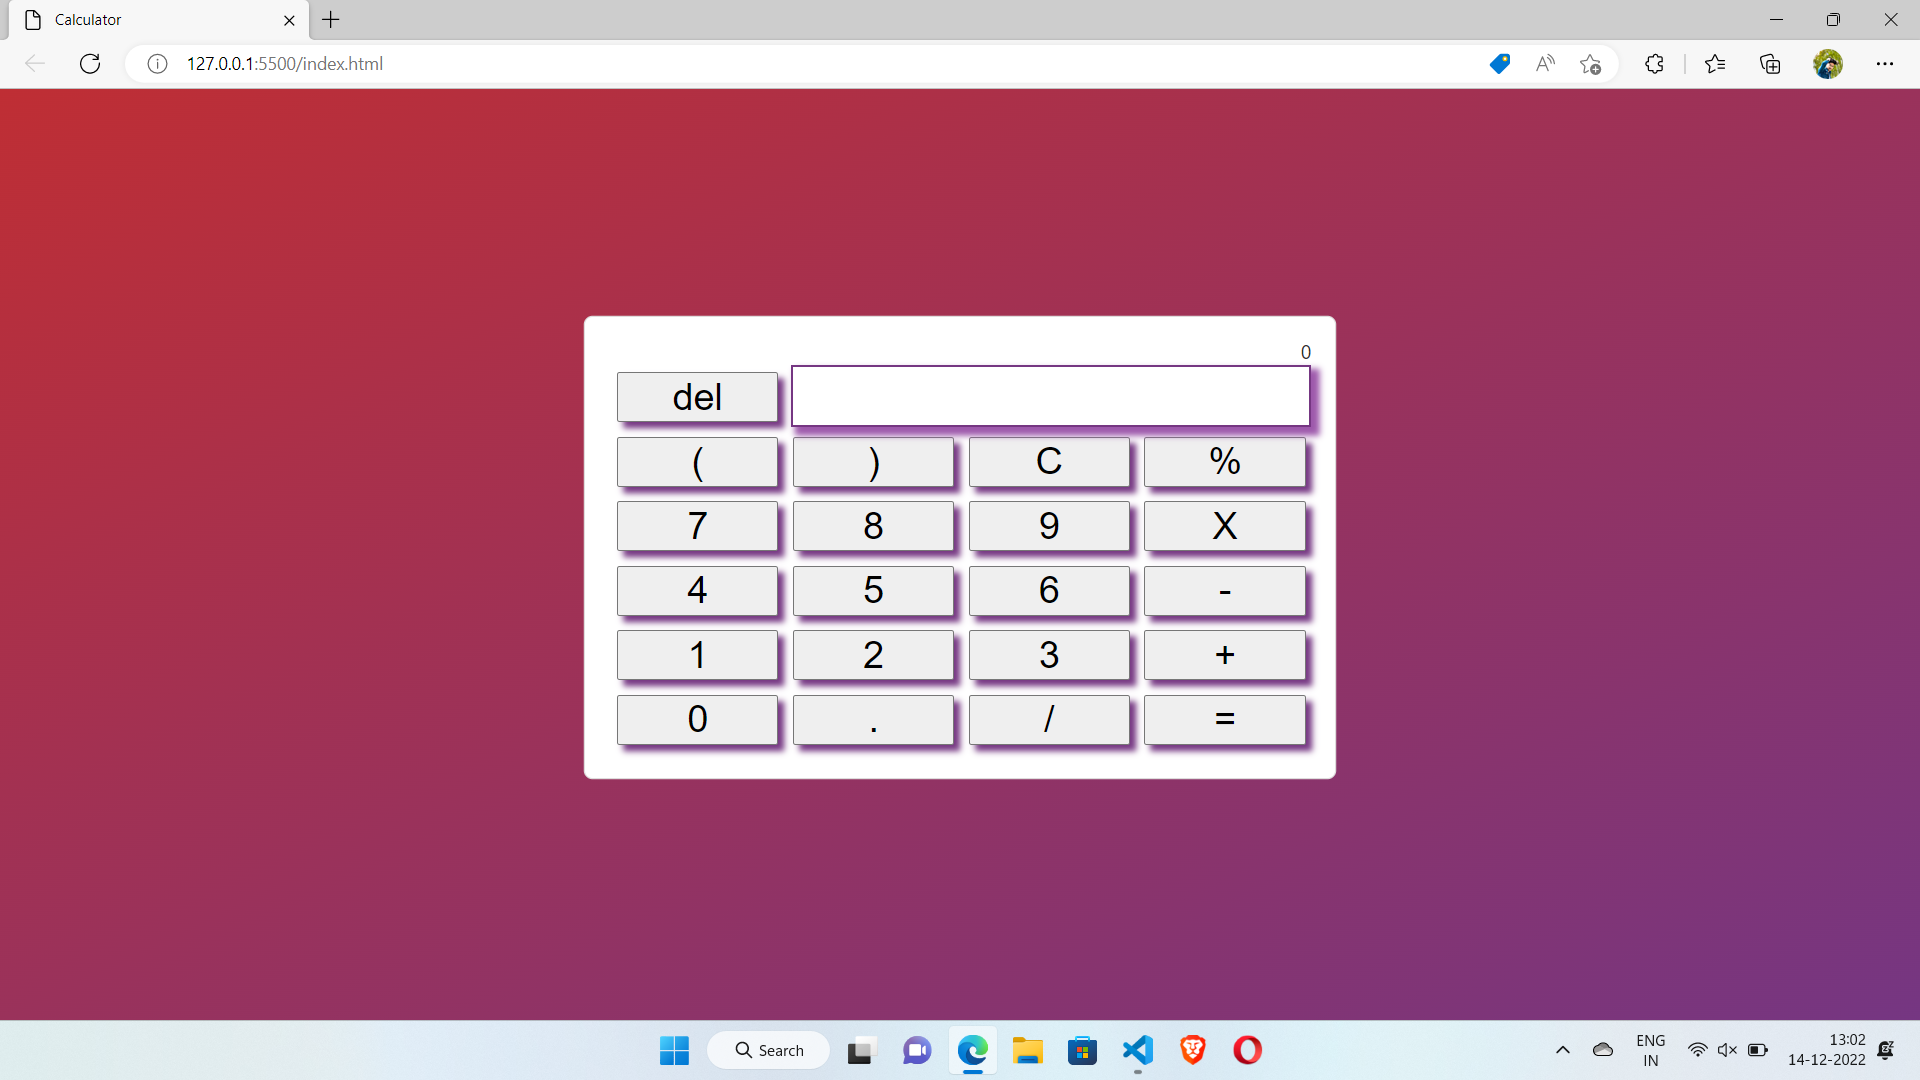
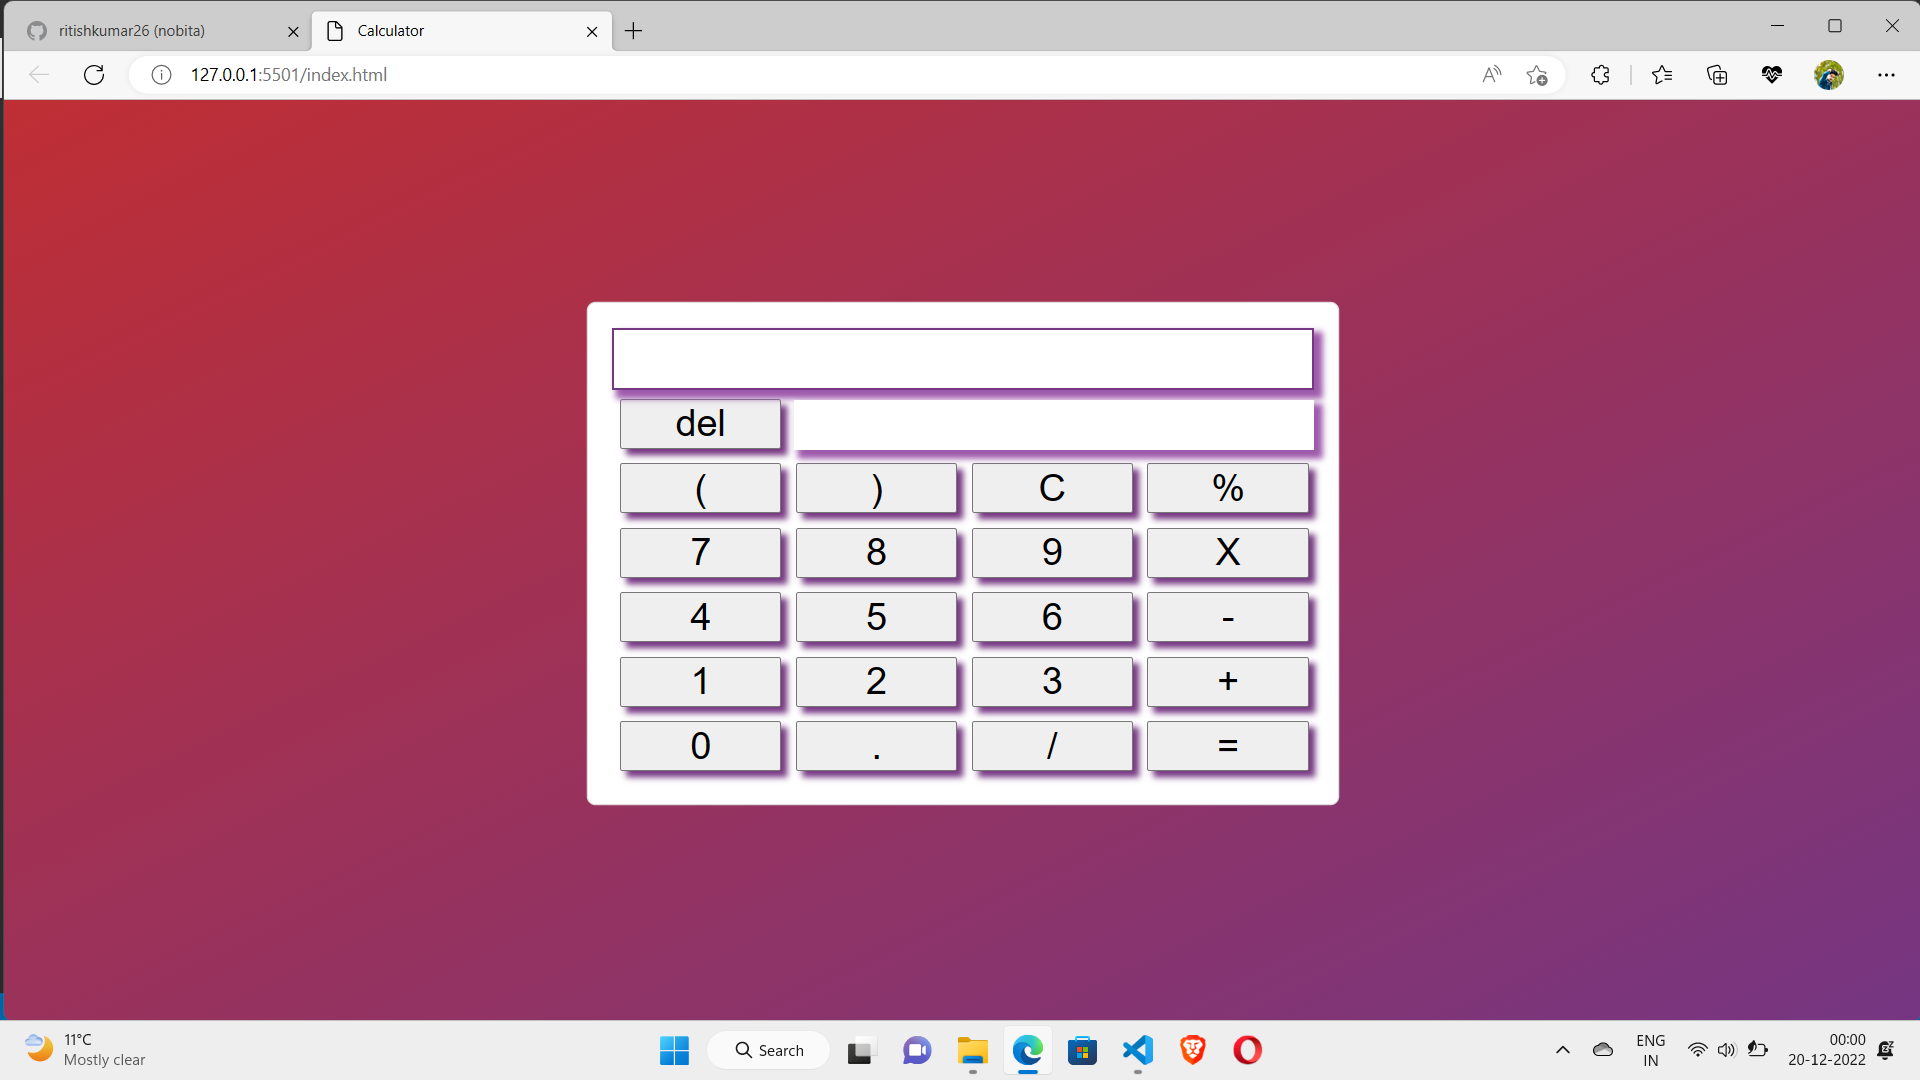
Add files via upload

diff --git a/index.css b/index.css
@@ -30,19 +30,18 @@ border-radius: 6px;
 margin-top: 0;
 box-shadow: 0 0 0 1px rgb(222, 220, 220);
 }
-.display-container{
-position: relative;
-}
-
 input[class="display"]
 {
-width: 74%;
+width: 100%;
 height: 50px;
-position: absolute;
+
 right: 0;
 top: 18px;
 border: 2px solid #753682;
 box-shadow:  5px 5px 5px 2px#9d58ab;
+}
+.keys-container button:first-child{
+    width: 100%;
 }
 input[class="display"], text{
 font-size: 30px;
@@ -66,9 +65,21 @@ box-shadow:  5px 5px 5px#753682  ;
 box-shadow:  5px 5px 2px#753682  ;   
 background-color: rgb(227, 204, 204);
 }
-.upper-display{
-float: right;
-font-size: 15px;
-
-
+.inner-screen{
+    position: relative;
+    width: 100%;
 }
+.upper-display {
+position: absolute;
+right: 0;
+margin-top: 8px;
+font-size: 15px;
+background-color: white;
+width: 74%;
+padding: 12px px;
+height: 40px;
+text-align: right;
+font-size: 25px;
+box-shadow:  5px 5px 5px 2px#9d58ab;
+}
+

diff --git a/index.html b/index.html
@@ -14,14 +14,15 @@
             <div class="calculator">
                 <div class="inner-container">
                     <div class="display-container">
-                        <p id="dem" class="upper-display">0</p>
+                       
                         <div class="inner-screen">
                             <input id="screen" class="display" type="text">
-                        </div>
-                        
+                            <p id="dem" class="upper-display">0</p>
+                        </div>   
+                         
+  
                     </div>
                     <div class="keys-container" id="keys-container">
-                    
                     </div>
                 </div>
             </div>
